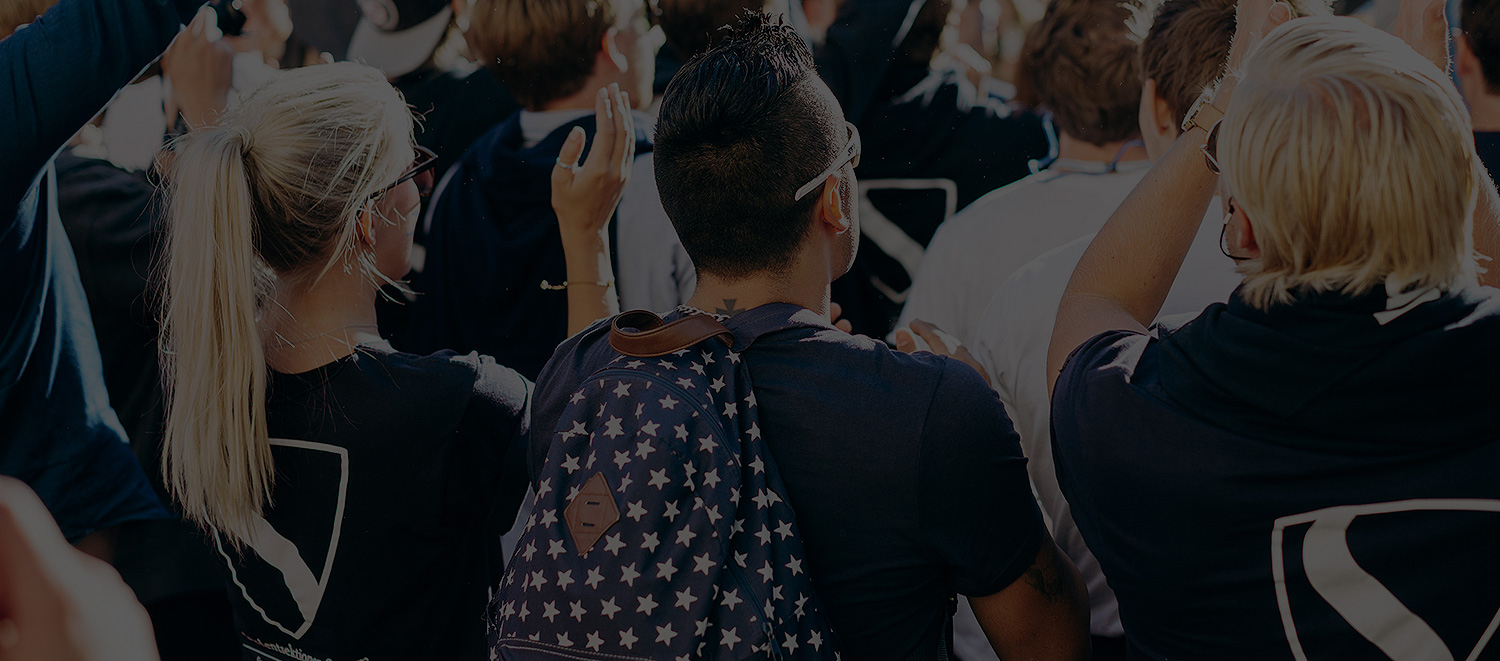
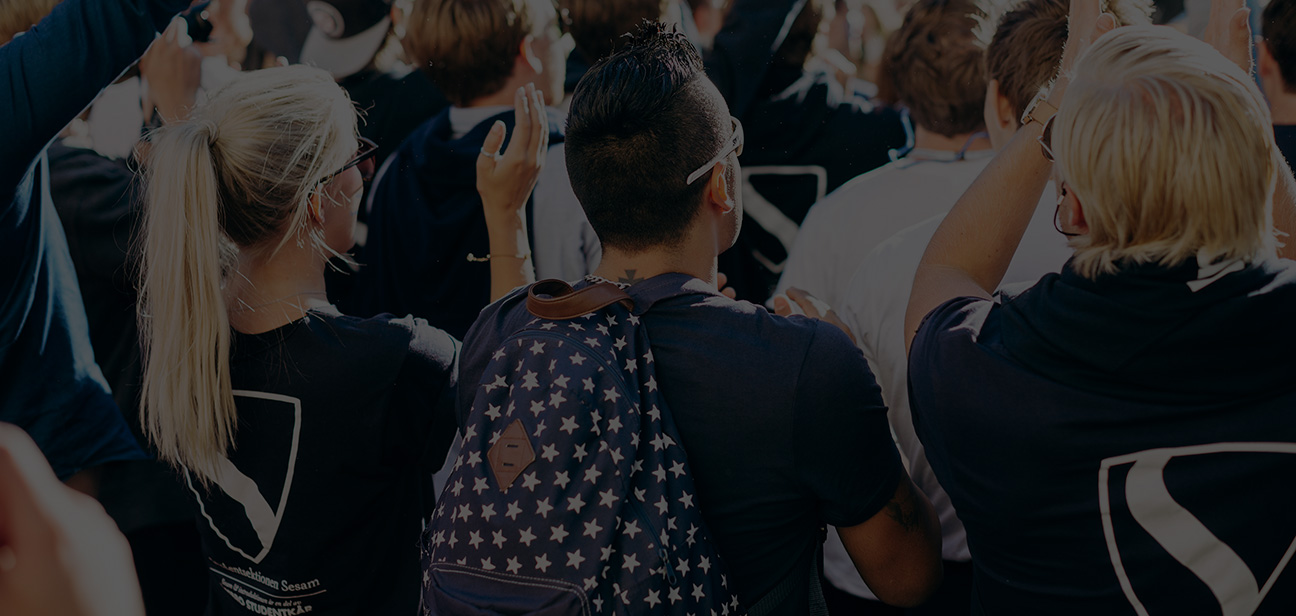
asd

diff --git a/src/Sesamit/wwwroot/css/site.css b/src/Sesamit/wwwroot/css/site.css
@@ -194,7 +194,7 @@ p {
         margin: 30px 0 50px !important;
     }
     .top-page-header {
-        padding: 150px 0 110px !important;
+        padding: 200px 0 110px !important;
     }
 }
 
@@ -627,7 +627,7 @@ p {
 
 /****************************Utskott****************************/
 #utskott-header {
-    background-image: url("../Images/introduktion/lowquality/1236830_10151711573389811_1283696907_n-faded.png");
+    background-image: url("../Images/headers/15-09-11-orebrodagen-2015-57660-faded.jpg");
 }
 
 #nav li a {
